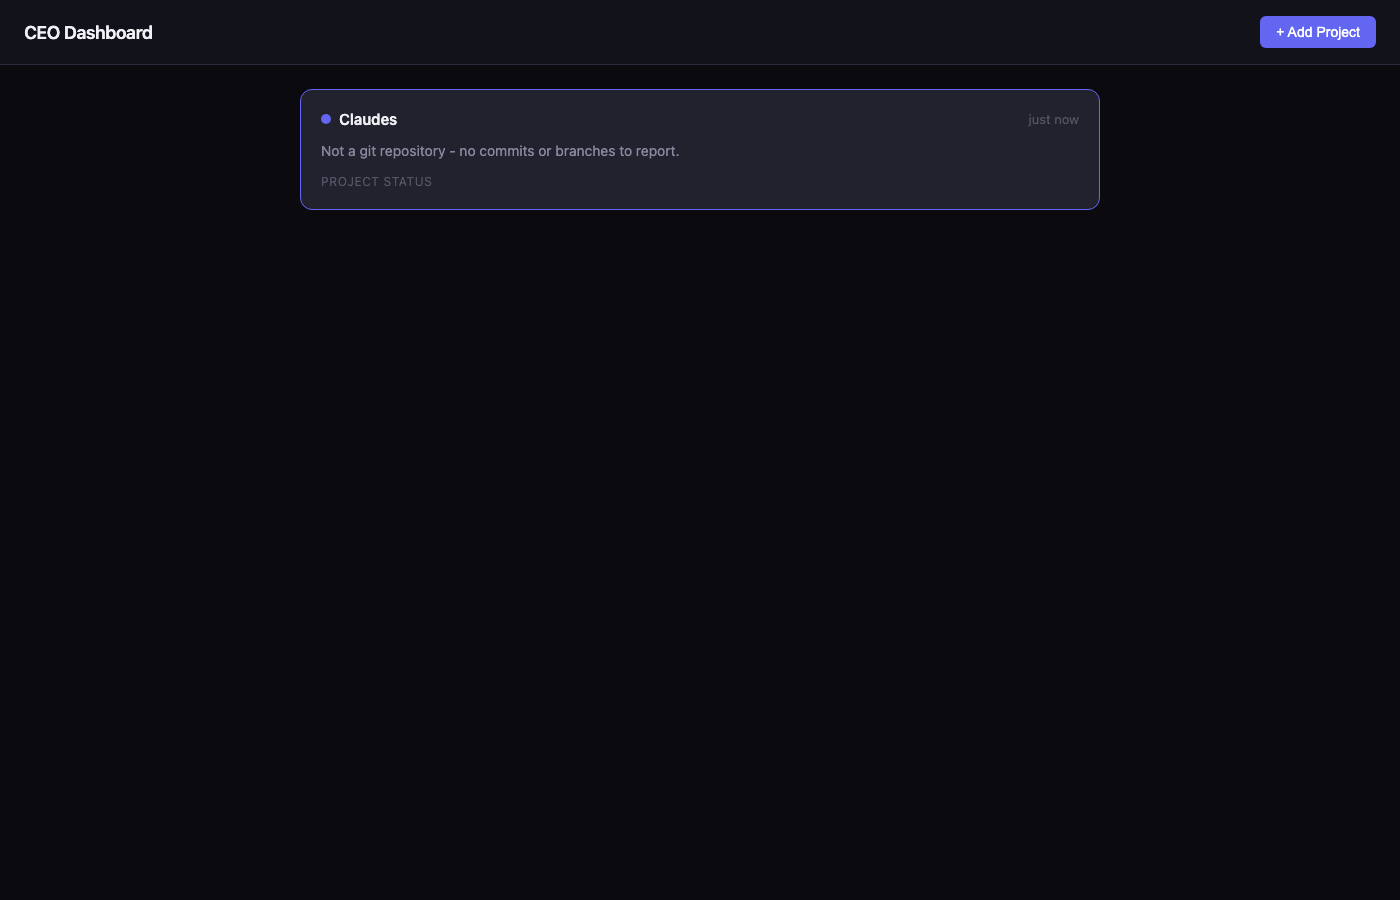
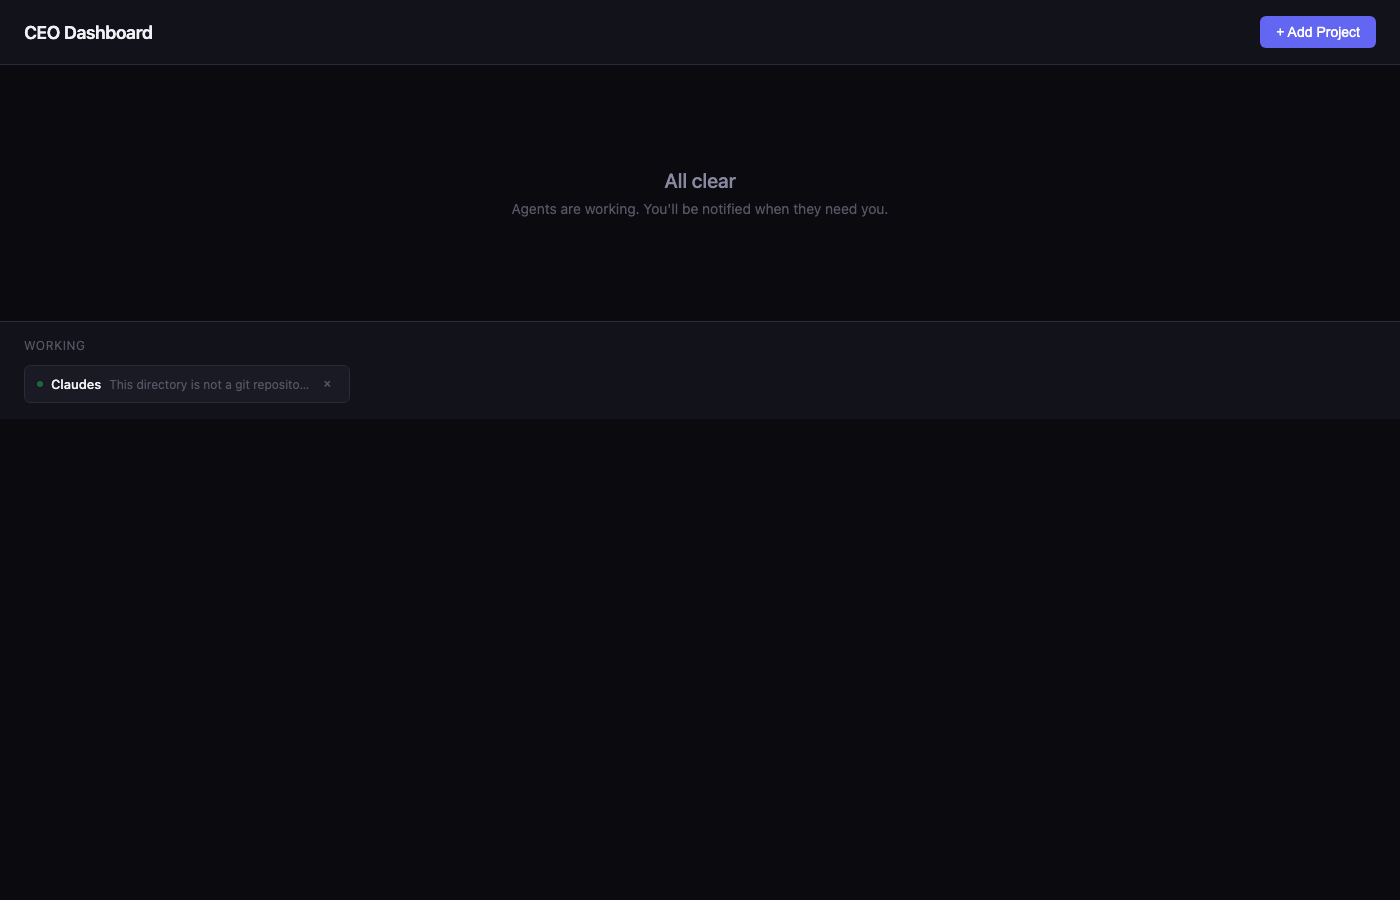
Add agent management: close buttons and UI polish
- Close button on working agents (× to stop)
- Stop Agent button in conversation view
- Improved working agent styling with hover states
- closeAgent and closeCurrentAgent functions

Changed region(s): [[0.215, 0.0933, 0.7986, 0.2489], [0.0307, 0.3733, 0.215, 0.4356]]

diff --git a/static/index.html b/static/index.html
@@ -255,8 +255,16 @@
             gap: 8px;
             padding: 8px 12px;
             background: var(--bg-card);
+            border: 1px solid var(--border);
             border-radius: 6px;
             font-size: 13px;
+            cursor: pointer;
+            transition: all 0.15s ease;
+        }
+
+        .working-agent:hover {
+            background: var(--bg-hover);
+            border-color: var(--accent);
         }
 
         .working-agent .dot {
@@ -278,6 +286,23 @@
             overflow: hidden;
             text-overflow: ellipsis;
             white-space: nowrap;
+            flex: 1;
+        }
+
+        .working-agent-close {
+            background: transparent;
+            border: none;
+            color: var(--text-muted);
+            cursor: pointer;
+            padding: 2px 6px;
+            font-size: 14px;
+            border-radius: 4px;
+            transition: all 0.15s ease;
+        }
+
+        .working-agent-close:hover {
+            background: var(--error);
+            color: white;
         }
 
         /* ============ CONVERSATION VIEW ============ */
@@ -317,6 +342,24 @@
         .conversation-project {
             font-weight: 600;
             font-size: 16px;
+            flex: 1;
+        }
+
+        .conversation-close {
+            padding: 8px 12px;
+            background: transparent;
+            border: 1px solid var(--border);
+            border-radius: 6px;
+            color: var(--text-muted);
+            font-size: 14px;
+            cursor: pointer;
+            transition: all 0.15s ease;
+        }
+
+        .conversation-close:hover {
+            background: var(--error);
+            border-color: var(--error);
+            color: white;
         }
 
         .conversation-messages {
@@ -543,6 +586,7 @@
                 <div class="conversation-header">
                     <button class="back-btn" onclick="showInbox()">← Back</button>
                     <span id="conversation-project" class="conversation-project"></span>
+                    <button id="conversation-close" class="conversation-close" onclick="closeCurrentAgent()">Stop Agent</button>
                 </div>
                 <div id="conversation-messages" class="conversation-messages"></div>
                 <div class="conversation-input">
@@ -762,13 +806,14 @@
             section.style.display = 'block';
             container.innerHTML = workingAgents.map(([id, agent]) => {
                 const lastMessage = agent.messages[agent.messages.length - 1];
-                const preview = lastMessage ? lastMessage.content.slice(0, 50) + '...' : 'Working...';
+                const preview = lastMessage ? lastMessage.content.slice(0, 40) : 'Starting...';
                 
                 return `
                     <div class="working-agent" onclick="openConversation('${id}')">
                         <span class="dot"></span>
                         <span class="working-agent-name">${escapeHtml(agent.project)}</span>
                         <span class="working-agent-status">${escapeHtml(preview)}</span>
+                        <button class="working-agent-close" onclick="event.stopPropagation(); closeAgent('${id}')" title="Stop agent">×</button>
                     </div>
                 `;
             }).join('');
@@ -874,6 +919,17 @@
 
         function closeProjectModal() {
             document.getElementById('project-modal').classList.remove('active');
+        }
+
+        async function closeAgent(agentId) {
+            await fetch(`/agents/${agentId}`, { method: 'DELETE' });
+        }
+
+        async function closeCurrentAgent() {
+            if (state.currentAgent) {
+                await closeAgent(state.currentAgent);
+                showInbox();
+            }
         }
 
         async function selectProject(project) {
